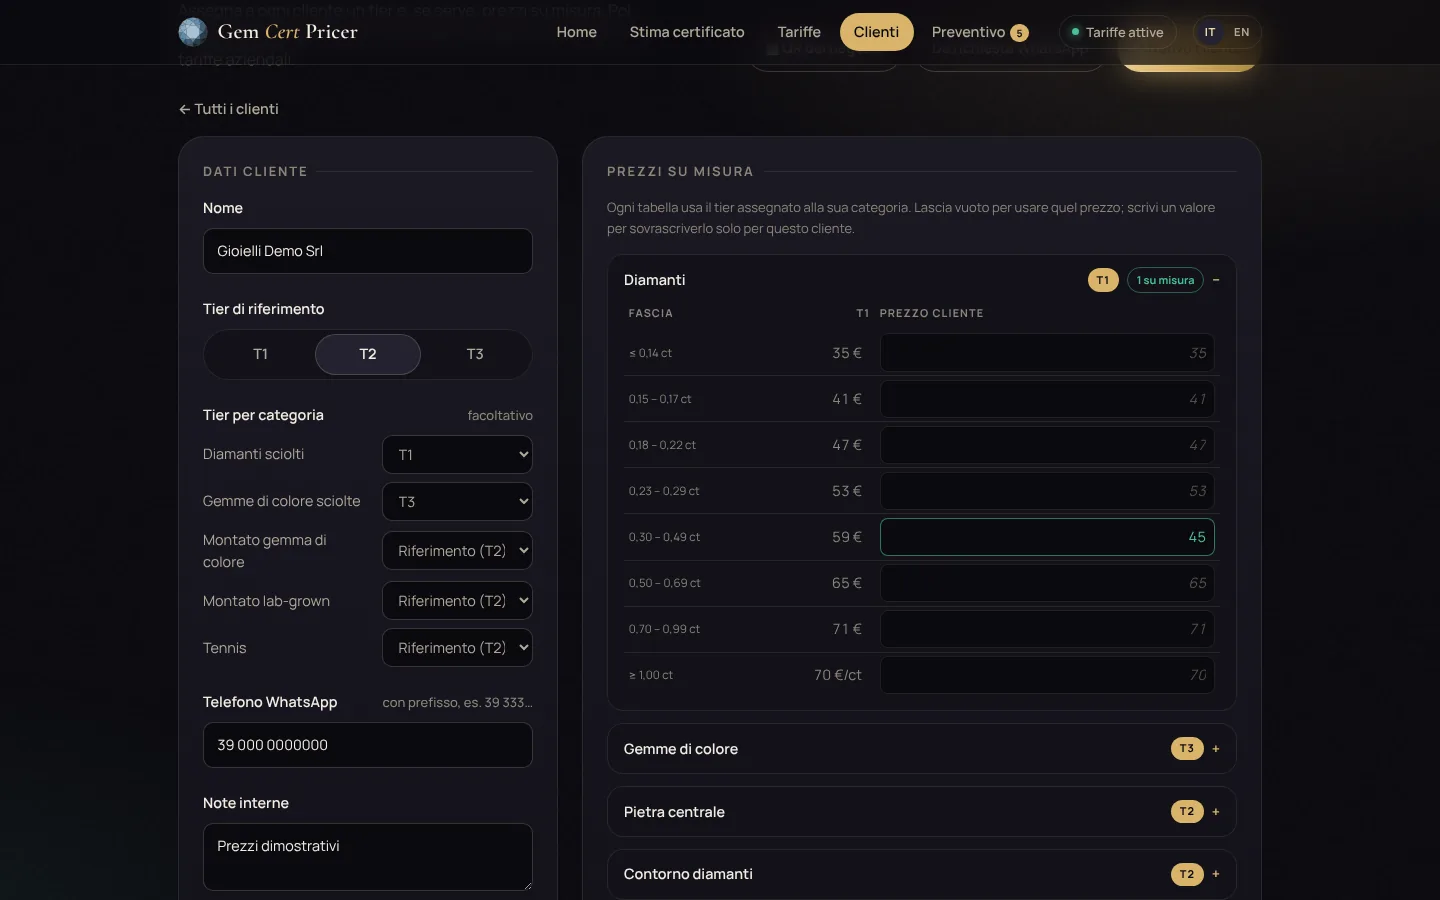
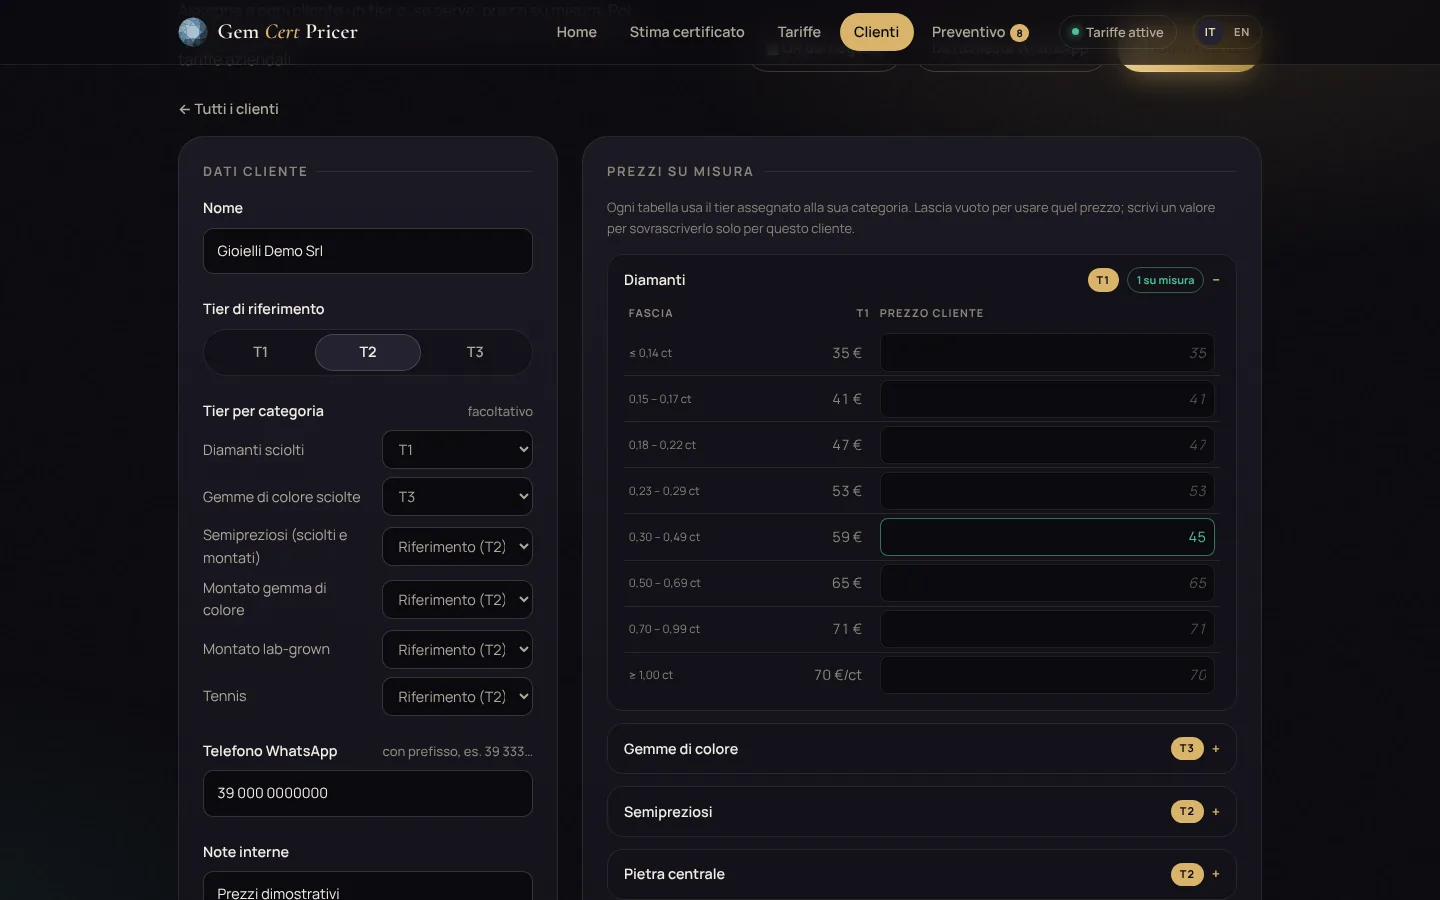
README: schermate rifatte con i semipreziosi
Schermate rigenerate con il tariffario dimostrativo, ora con le tabelle
dei semipreziosi, il selettore a tre opzioni e un semiprezioso nel
preventivo di esempio.

Claude-Session: https://claude.ai/code/session_01E7R9ZscfrbF4nba4Fm3Ntg

diff --git a/README.md b/README.md
@@ -81,7 +81,7 @@ Il link contiene solo i prezzi effettivi di quel cliente, compressi, e li traspo
 
 <table>
   <tr>
-    <td width="50%"><b>Pietra sciolta</b> — fascia di caratura evidenziata e confronto T1 · T2 · T3<br><br><img src="docs/screenshots/sciolto.webp" alt="Stima pietra sciolta"></td>
+    <td width="50%"><b>Pietra sciolta</b> — diamante, gemma di colore o semiprezioso: fascia di caratura evidenziata e confronto T1 · T2 · T3<br><br><img src="docs/screenshots/sciolto.webp" alt="Stima pietra sciolta"></td>
     <td width="50%"><b>Montato lab-grown</b> — peso totale dei diamanti + supplemento pietra centrale<br><br><img src="docs/screenshots/lab.webp" alt="Stima montato lab-grown"></td>
   </tr>
   <tr>
